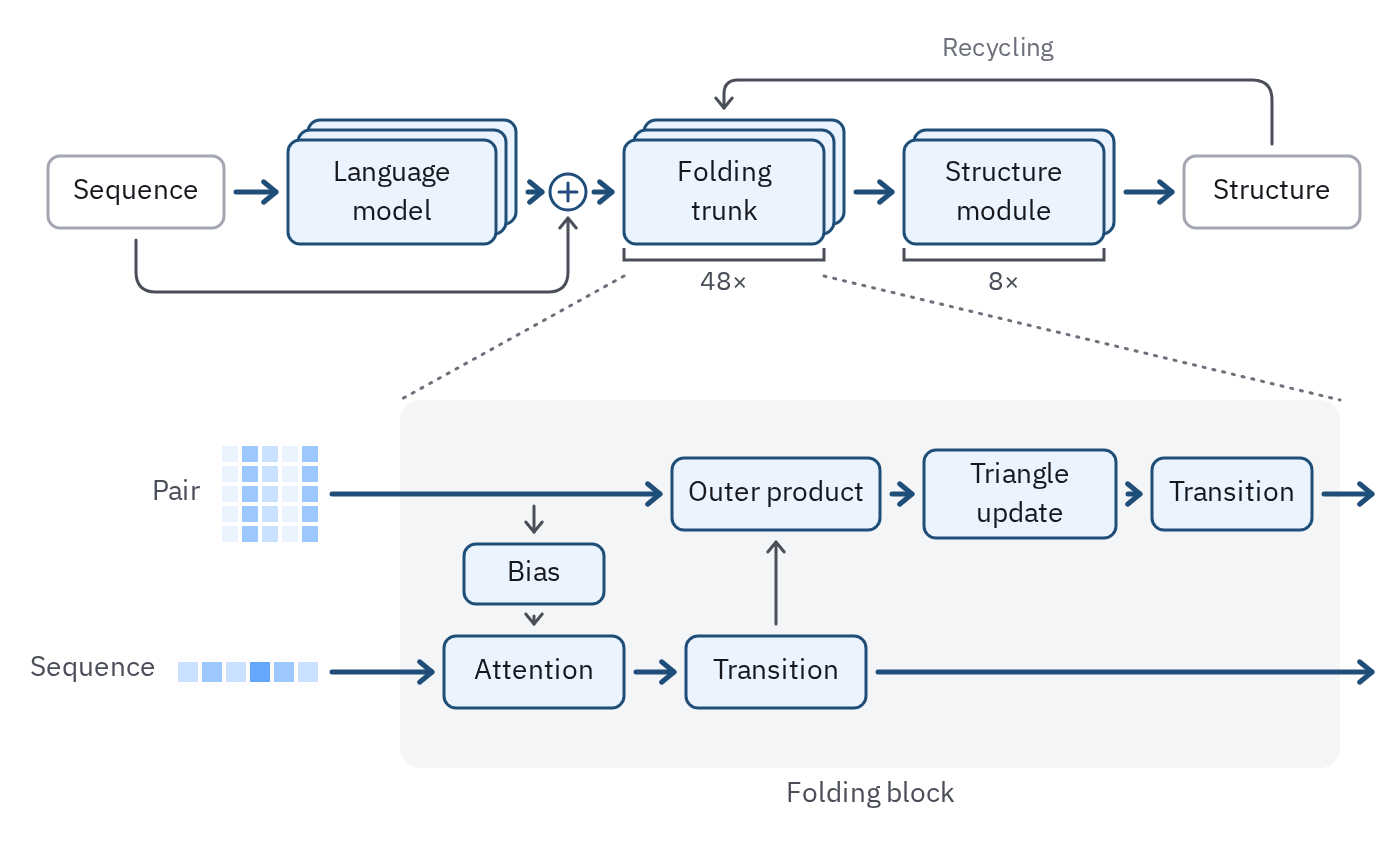
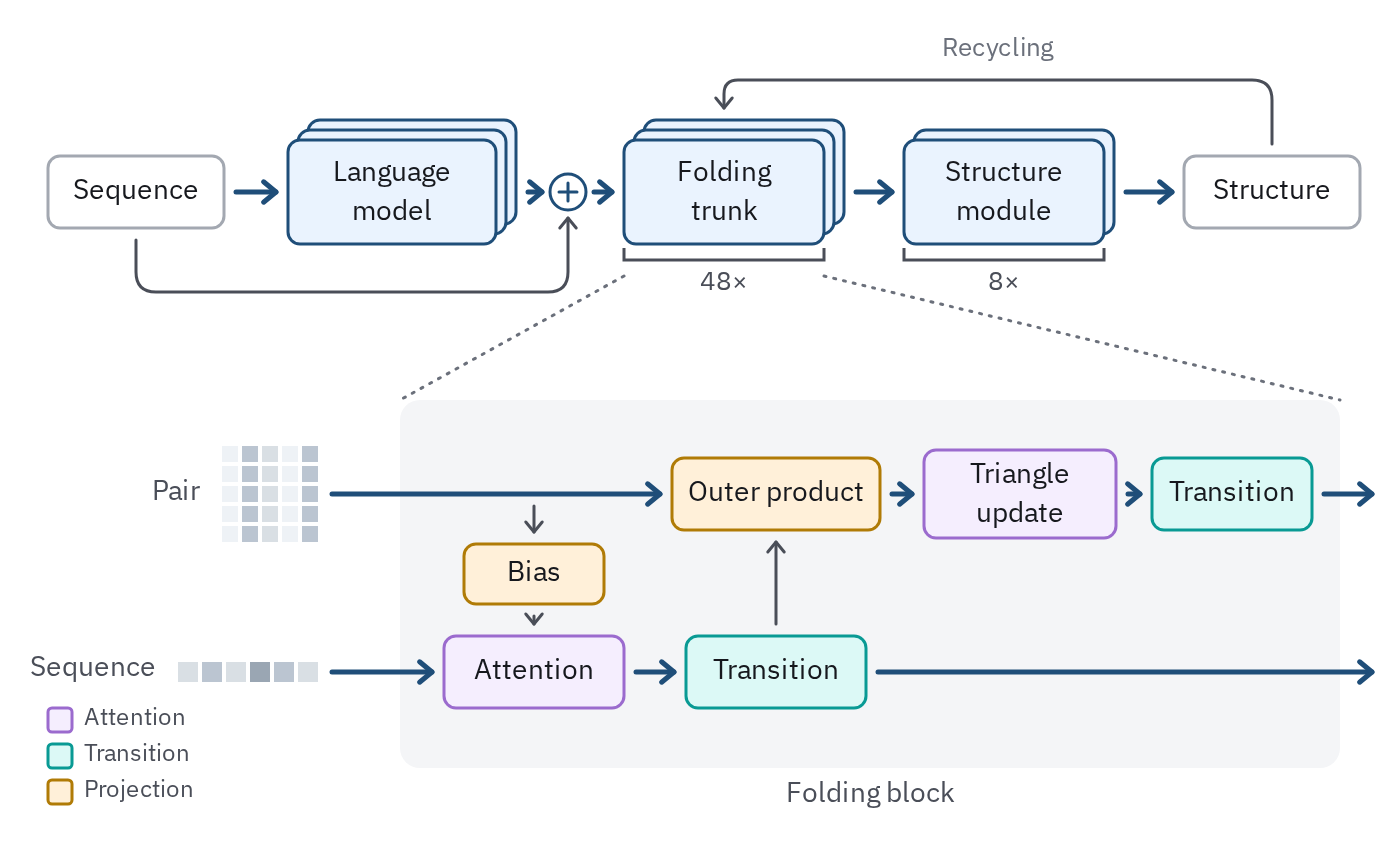
Colour schematics by role: subunit types in form 27, accent for feedback and additions in form 28

diff --git a/kit/ga-schematic.js b/kit/ga-schematic.js
@@ -184,10 +184,10 @@
     // mini tracks: rows [{ kind: "spans" | "events", data, colors? }], data as in
     // S.tracks (spans may carry a colour: [a, b, colour]). tone "ink" draws the marks
     // in their colours with an ink-2 outline; "context" greys the whole card out;
-    // "add" outlines it in prussian (a state a step creates).
+    // "add" outlines it in accent (a state a step creates).
     S.state = (o) => {
       const w = o.w || 60, h = o.h || 38, x = o.cx - w / 2, y = o.cy - h / 2, tone = o.tone || "ink";
-      const grey = tone === "context", edge = grey ? "var(--context)" : tone === "add" ? "var(--prussian)" : "var(--ink-2)";
+      const grey = tone === "context", edge = grey ? "var(--context)" : tone === "add" ? "var(--accent)" : "var(--ink-2)";
       const rows = o.rows || [], pitch = (h - 6) / Math.max(1, rows.length), X = (u) => f1(x + 5 + u * (w - 10));
       let m = `<rect x="${f1(x)}" y="${f1(y)}" width="${w}" height="${h}" rx="4" fill="var(--paper)" stroke="${edge}" stroke-width="${tone === "add" ? 2 : 1.5}"/>`;
       rows.forEach((r, i) => {

diff --git a/core/charts/forms/27-architecture-diagram.md b/core/charts/forms/27-architecture-diagram.md
@@ -97,7 +97,9 @@ block opened beneath it, as a zoom.
   (`../../illustration.md`, *Zoom*).
 - **Inside, one lane per representation**, each entering from the left in its own
   shape (a grid for pairs, cells for the sequence) and leaving at the right. Sub-layers
-  are model blocks on their lane; what crosses between lanes is a 1.5 px wire.
+  sit on their lane, coloured by type (attention, transition, projection) in tints
+  of identity slots with a key, so the model's blue stays on the stages above. What
+  crosses between lanes is a 1.5 px wire.
 
 ![Language-model embeddings and the sequence summed into a folding trunk of 48 blocks and a structure module of 8, with recycling over the top; one folding block opened into a pair lane and a sequence lane](out/27-architecture-diagram.a-block-opened.png)
 
@@ -123,16 +125,24 @@ ga.text("Recycling", { x: 499, y: 18, role: "note", size: 13, anchor: "middle" }
 // one folding block, opened
 const P = S.panel({ x: 200, y: 200, w: 470, h: 184, label: "Folding block" });
 ga.raw(`<path d="M312 138L${P.l} ${P.t}M412 138L${P.r} ${P.t}" stroke="var(--muted)" stroke-width="1.5" stroke-dasharray="1 4" stroke-linecap="round"/>`);
-const pair = S.grid({ x: 110, y: 222, rows: 5, cols: 5, fill: (i, j) => tok(`blue-${[100, 200, 300][(i * 3 + j * 2) % 3]}`) });
-const res = S.cells({ x: 88, y: 330, n: 6, cell: 12, fill: (i) => tok(`blue-${[200, 300, 200, 400, 300, 200][i]}`) });
+const pair = S.grid({ x: 110, y: 222, rows: 5, cols: 5, fill: (i, j) => tok(`slate-${[100, 200, 300][(i * 3 + j * 2) % 3]}`) });
+const res = S.cells({ x: 88, y: 330, n: 6, cell: 12, fill: (i) => tok(`slate-${[200, 300, 200, 400, 300, 200][i]}`) });
 ga.text("Pair", { x: 100, y: 239, anchor: "end", role: "label", size: 14, color: "var(--ink-2)" });
 ga.text("Sequence", { x: 78, y: 327, anchor: "end", role: "label", size: 14, color: "var(--ink-2)" });
-const prod = S.block({ x: 336, y: 229, w: 104, h: 36, label: "Outer product" });
-const tri = S.block({ x: 462, y: 225, w: 96, h: 44, label: "Triangle\nupdate" });
-const ptr = S.block({ x: 576, y: 229, w: 80, h: 36, label: "Transition" });
-const bias = S.block({ x: 232, y: 272, w: 70, h: 30, label: "Bias" });
-const att = S.block({ x: 222, y: 318, w: 90, h: 36, label: "Attention" });
-const str = S.block({ x: 343, y: 318, w: 90, h: 36, label: "Transition" });
+// sub-layers coloured by type: attention, transition (a per-position MLP), projection
+const KIND = { att: "violet", mlp: "teal", proj: "ochre" };
+const sub = (o, k) => S.block({ ...o, fill: tok(`${KIND[k]}-100`), stroke: tok(`${KIND[k]}-500`) });
+const prod = sub({ x: 336, y: 229, w: 104, h: 36, label: "Outer product" }, "proj");
+const tri = sub({ x: 462, y: 225, w: 96, h: 44, label: "Triangle\nupdate" }, "att");
+const ptr = sub({ x: 576, y: 229, w: 80, h: 36, label: "Transition" }, "mlp");
+const bias = sub({ x: 232, y: 272, w: 70, h: 30, label: "Bias" }, "proj");
+const att = sub({ x: 222, y: 318, w: 90, h: 36, label: "Attention" }, "att");
+const str = sub({ x: 343, y: 318, w: 90, h: 36, label: "Transition" }, "mlp");
+// the key, under the lanes' inputs
+[["Attention", "att"], ["Transition", "mlp"], ["Projection", "proj"]].forEach(([name, k], i) => {
+  ga.raw(`<rect x="24" y="${354 + i * 18}" width="12" height="12" rx="2" fill="${tok(`${KIND[k]}-100`)}" stroke="${tok(`${KIND[k]}-500`)}" stroke-width="1.5"/>`);
+  ga.text(name, { x: 42, y: 353 + i * 18, role: "tick", size: 12, color: "var(--ink-2)" });
+});
 // the pair lane
 S.wire([S.port(pair, "r"), S.port(prod, "l")], { from: pair, to: prod });
 S.wire([S.port(prod, "r"), S.port(tri, "l")], { from: prod, to: tri });

diff --git a/core/charts/forms/28-procedure-schematic.md b/core/charts/forms/28-procedure-schematic.md
@@ -19,7 +19,7 @@ It reads left to right, or top to bottom when the steps are tall.
   (cells, tracks; *Schematics*, `../../illustration.md`). Name each step with a verb
   or a noun the reader knows, one or two words.
 - **The forward path is the main wire**, 2.5 px `prussian`. **What feeds back** (a
-  gradient, an update, a target) is a 1.5 px wire, dashed, routed around the
+  gradient, an update, a target) is a 1.5 px `accent` wire, dashed, routed around the
   forward path, above it where there is room, with square corners rounded at 10 px, and named once in `muted`
   beside it ("gradient").
 - **Two things compared** (predicted against observed, a policy against the
@@ -49,7 +49,7 @@ S.wire([S.port(pred, "r"), { x: 548, y: 98 }, { x: 548, y: 138 }, S.port(loss, "
 S.wire([S.port(batch, "b"), { x: 68, y: 192 }, S.port(obs, "l")], { tone: "minor", from: batch, to: obs });
 S.wire([S.port(obs, "r"), { x: 548, y: 192 }, { x: 548, y: 154 }, S.port(loss, "l", 36 / 56)], { tone: "minor", from: obs, to: loss });
 // the gradient, fed back outside the forward path
-S.wire([S.port(loss, "t"), { x: 596, y: 38 }, { x: 334, y: 38 }, S.port(model, "t")], { tone: "minor", color: "var(--prussian)", dash: true, from: loss, to: model });
+S.wire([S.port(loss, "t"), { x: 596, y: 38 }, { x: 334, y: 38 }, S.port(model, "t")], { tone: "minor", color: "var(--accent)", dash: true, from: loss, to: model });
 ga.text("gradient", { x: 440, y: 16, role: "note", size: 13 });
 ```
 
@@ -63,13 +63,13 @@ the thing itself, and ink only what that step touches.
   both 500 (`S.step`). The columns share a top line and a width.
 - **A state is a cartoon, not a dot.** Draw the object at each node small, the way
   the paper's reader knows it: a patient's record as a card of mini tracks, a board
-  as a board. A child is its parent with the action added, in that action's colour,
+  as a board. A child is its parent with the action added, in that action's colour (identity slots, not blue, which is the model's),
   so the tree reads as histories branching.
 - **The same tree in every column, in the same place**, depth levels on dashed
   `rule` guides across the figure. What the step acts on is `ink`: states with an
   `ink-2` outline and their colours, edges 2.5 px with a head. The rest is
   `context`: grey cards, 1.5 px edges.
-- **What a step adds is `prussian`**: new states outlined in it, a rollout as a
+- **What a step adds is `accent`**: new states outlined in it, a rollout as a
   dashed 2.5 px arrow, the value running back up the path. Values are written as the
   paper writes them, a function of the state, *v*( ) and *r*( ) (`S.fn`), and edge
   quantities (*Q*, *P*) sit beside their edge in `math`, `ink` on the chosen edge
@@ -79,9 +79,9 @@ the thing itself, and ink only what that step touches.
 
 ```js figure=steps-in-a-row w=784 h=456
 const S = GA.schematic(ga);
-const INK = "var(--ink)", CTX = "var(--context)", PRU = "var(--prussian)", MUT = "var(--muted)";
+const INK = "var(--ink)", CTX = "var(--context)", PRU = "var(--accent)", MUT = "var(--muted)";
 // a state is the record so far: earlier therapy, then one interval per action (a, b)
-const ACT = { a: "var(--cat-1)", b: "var(--cat-2)" };
+const ACT = { a: "var(--cat-3)", b: "var(--cat-2)" };
 const record = (acts) => [
   { kind: "spans", data: [[0, 0.28, "var(--ink-2)"], ...acts.map((c, k) => [0.3 + 0.17 * k + 0.01, 0.3 + 0.17 * (k + 1), ACT[c]])] },
   { kind: "events", data: [0.06, 0.16, 0.26, ...acts.map((_, k) => 0.38 + 0.17 * k)] },
